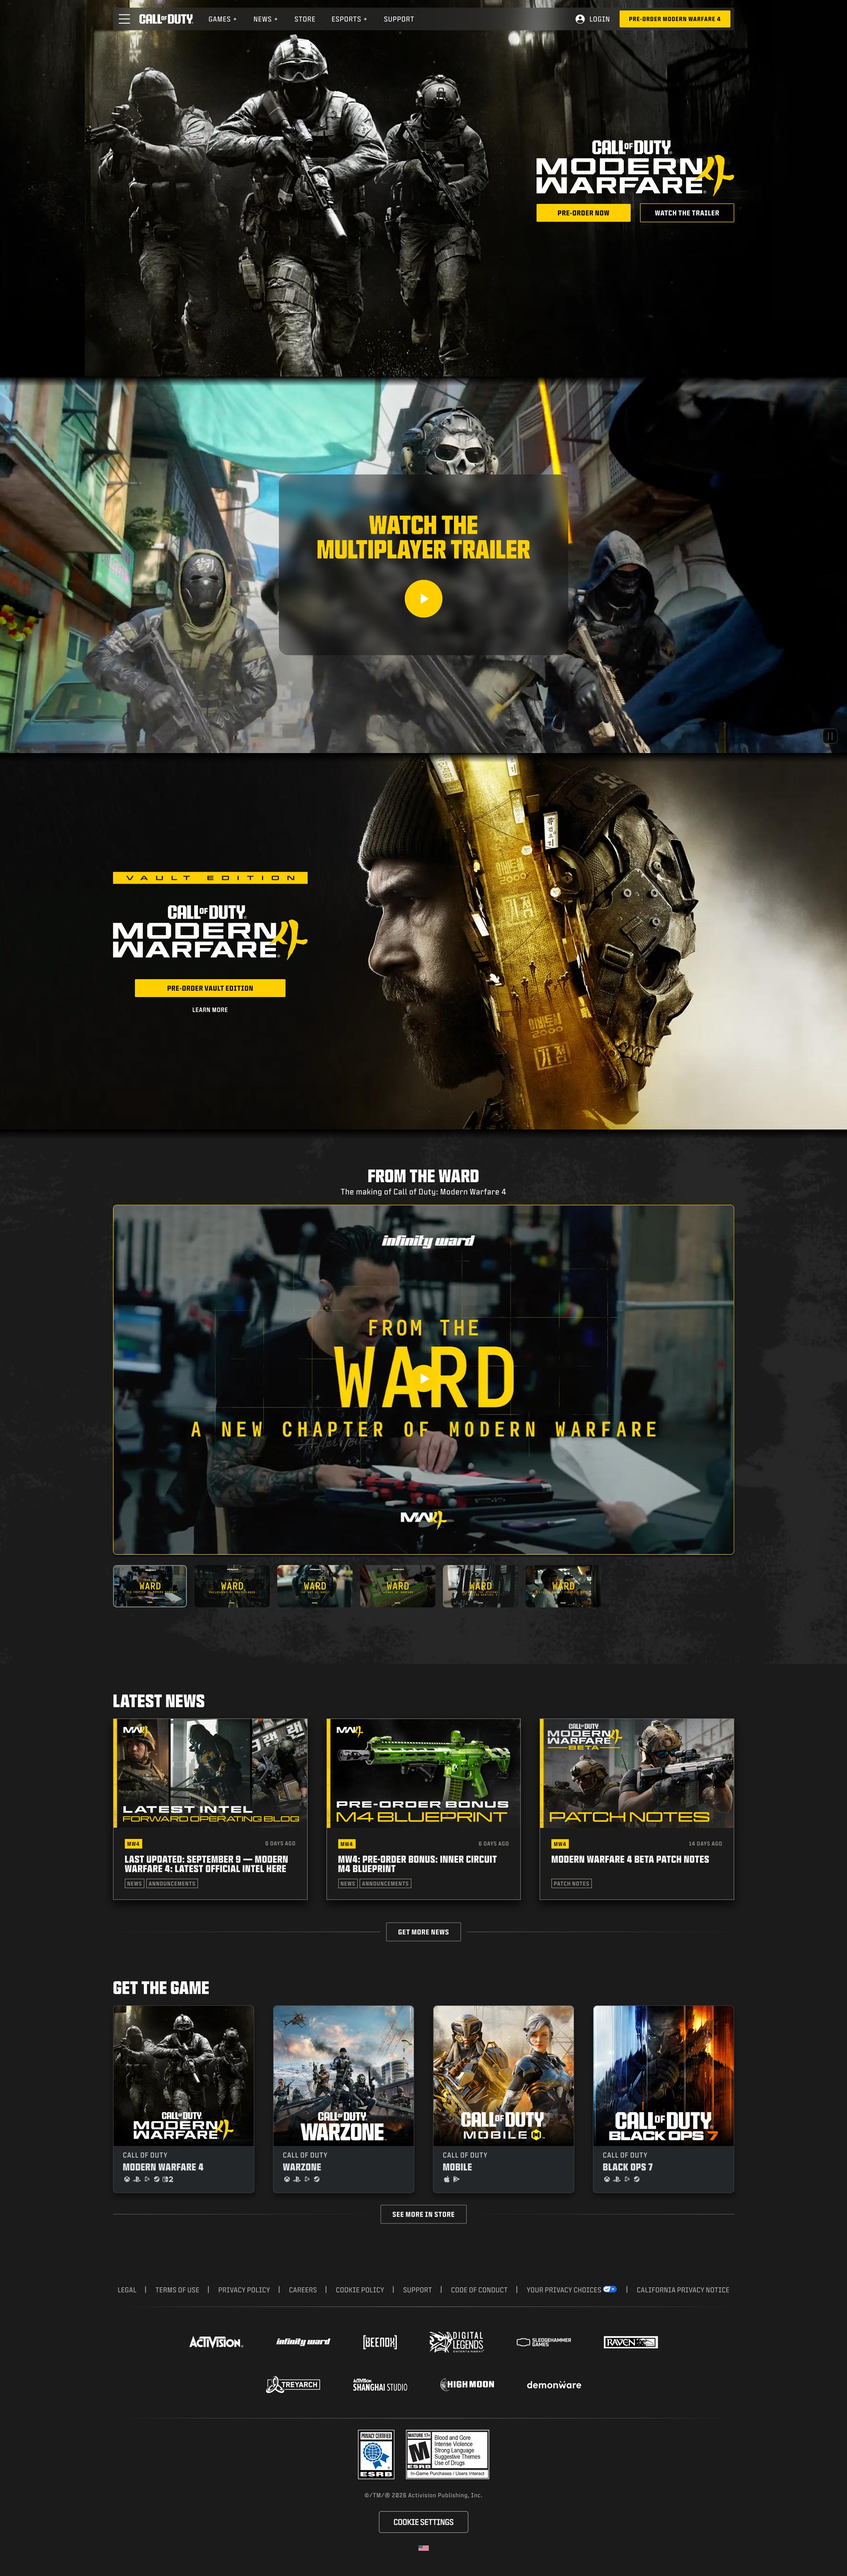
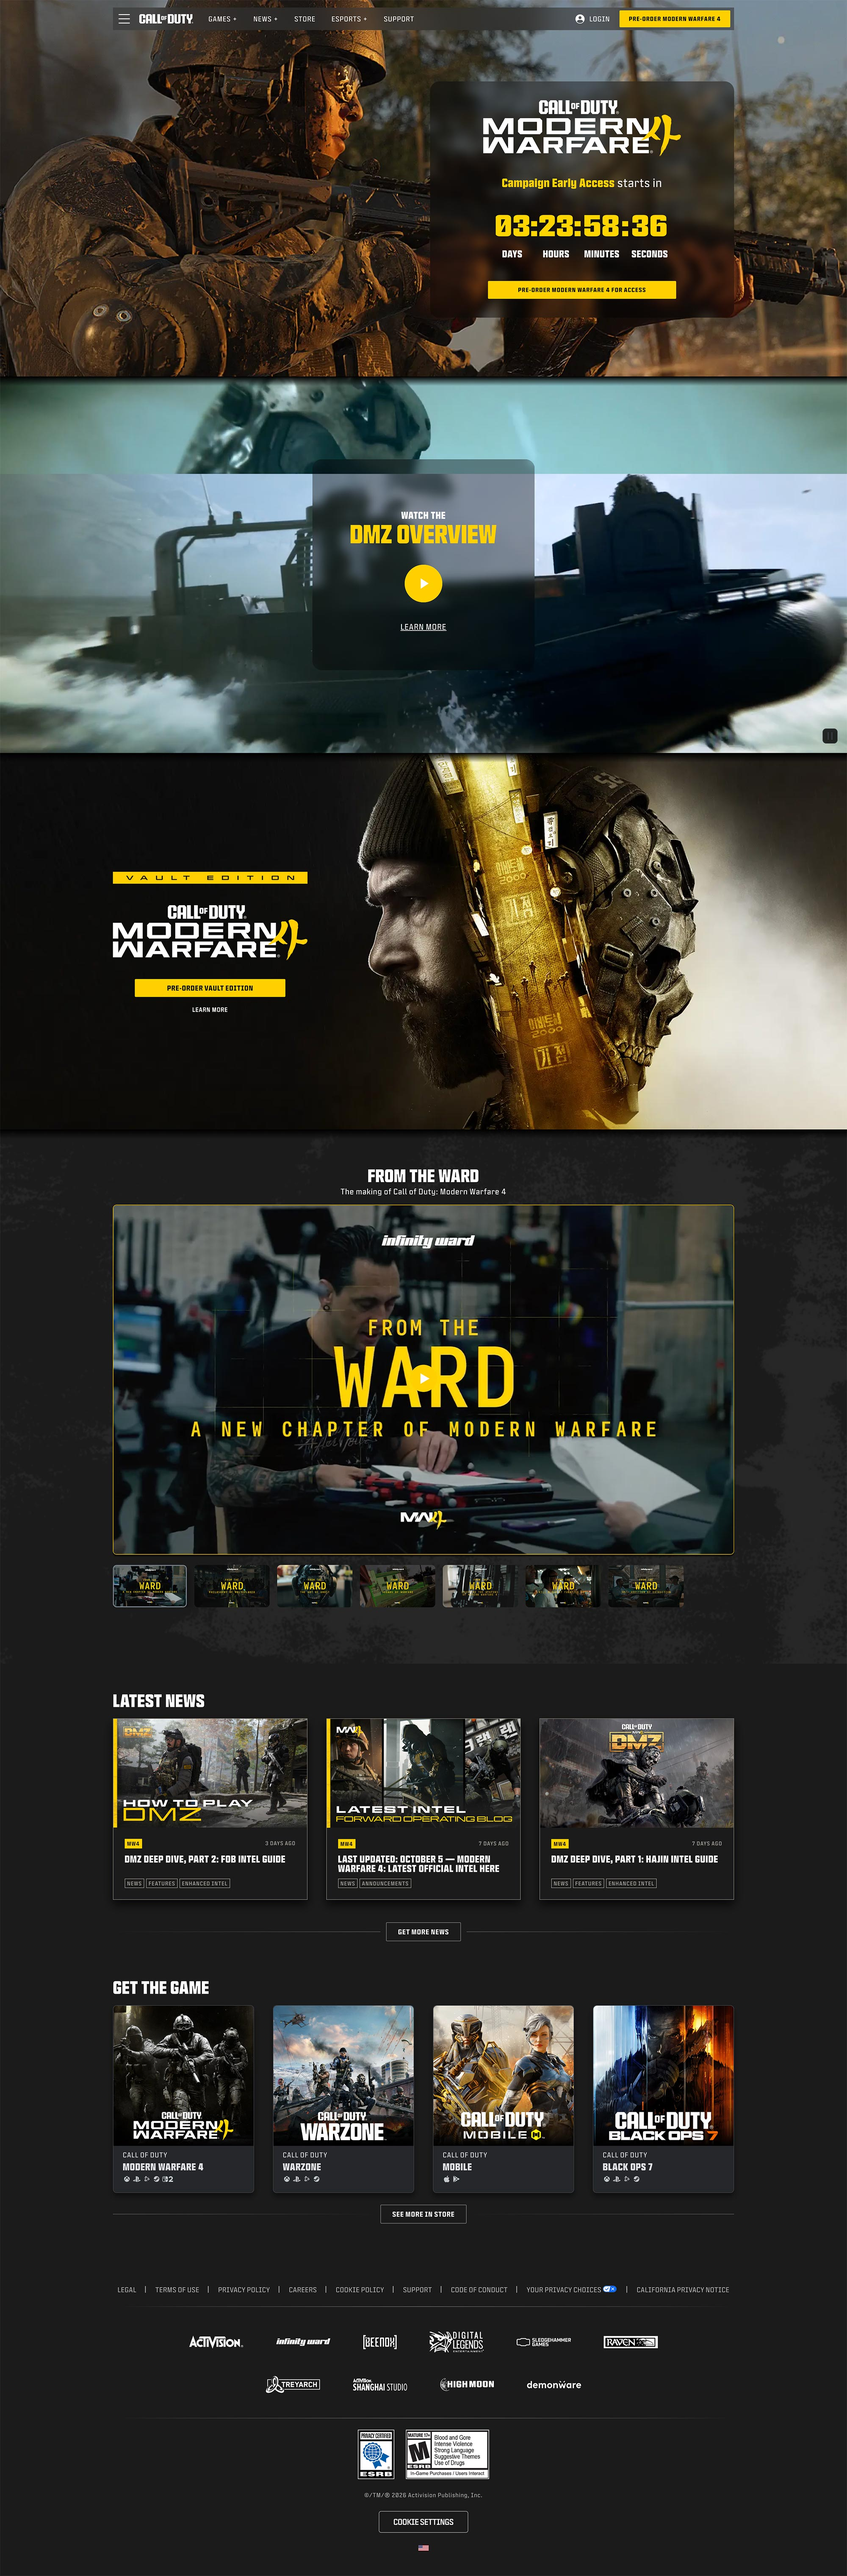
Quick change to cod hub details page

diff --git a/src/data/featured-work/call-of-duty-hub.tsx b/src/data/featured-work/call-of-duty-hub.tsx
@@ -35,7 +35,7 @@ export const callOfDutyHub: PortfolioProject = {
 	sections: [
 		{
 			heading: "Welcome, gamerz 🎮",
-			text: "A global component to be used across any of the COD pages the features the key art, franchise logo, and a call to action",
+			text: "A global component to be used across any of the COD pages the features the key art, franchise logo, and a call to action with a vanilla JavaScript powered timer countdown",
 			image: {
 				src: "/images/featured work/cod-hub/cod-hub-hero-1.jpg",
 				alt: "Call of Duty Hub hero section",
